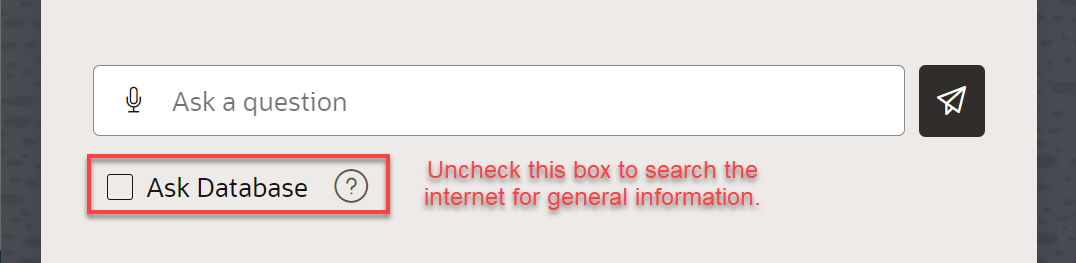
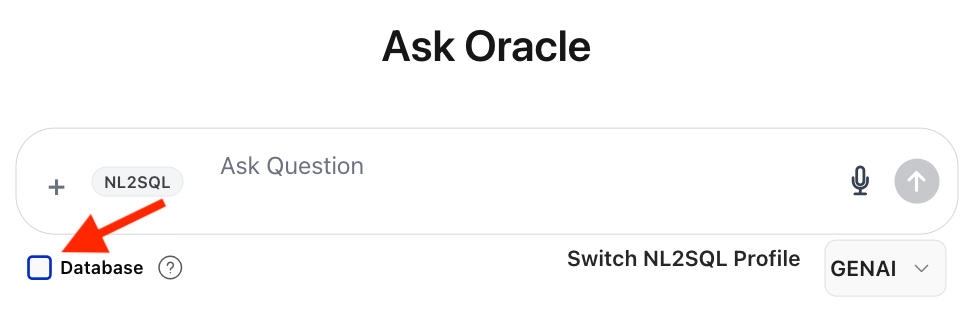
Update to the Chat with your Data Labs

Changed region(s): [[0.0, 0.0, 1.0, 1.0], [0.3696, 0.0913, 0.616, 0.2129], [0.0924, 0.3346, 0.3388, 0.4259]]

diff --git a/adb/shared/adb-speaks-human/use-select-ai-demo/use-select-ai-demo.md b/adb/shared/adb-speaks-human/use-select-ai-demo/use-select-ai-demo.md
@@ -27,24 +27,26 @@ In this lab, you will:
 
     ![Copy the URL value](./images/demo-credentials-file.png =65%x*)
 
-    Paste the URL in a new tab in your Web browser, and then click **[ENTER]**. In the **ADB Chat** page, enter the username (`moviestream`) and password that you saved in your text editor file, and then click **Sign In**.
+    Paste the URL in a new tab in your Web browser, and then click **[ENTER]**. 
+    
+2. On the **Ask Oracle Select AI** page, enter the username (`moviestream`) and password that you saved in your text editor file, and then click **Sign In**.
 
     ![Enter ChatDB credentials](./images/ai-select-credentials.png =70%x*)
 
-2. The **AI Settings** window in the **ADB Chat** application is displayed. Select a profile that you want to use. Click the **Choose subject areas** drop-down list, and select the **`GENAI [1]`** profile. This profile was created in the **Create credential and AI profile** paragraph in the notebook that you imported in **Lab 3**. Next, click the **X** control.
+3. The **Set Admin Users** window in the **Ask Oracle Select AI** application is displayed.  Type the username **MOVIESTREAM** in the `Admin usernames` , then click on the **Save Admin Users** button.  You should see a red `OK` shown on the bottom.  After you confirm this, hit the `ESCAPE` key on your keyboard to dismiss the menu.
 
-    ![Select AI application displayed](./images/select-ai-application.png =70%x*)
+    ![Set Admin Users is displayed](./images/select-ai-app-set-admin-users.png =70%x*)
 
-    The ADB Chat application is re-displayed. You are now ready to ask questions at the **Ask a question** prompt!
+4. In the main menu, you will see a section on the right of the conversation prompt that allows you to **switch the NL2SQL Profile**.  Click the pull-down menu and select **`GENAI`** profile. This profile was created in the **Create credential and AI profile** paragraph in the notebook that you imported in **Lab 3**.
 
-    ![Select AI application displayed](./images/select-ai-demo.png =70%x*)
+    ![Select AI application Profile](./images/select-ai-app-profile.png =70%x*)
 
 ## Task 2: Ask Natural Language and Database Questions Using the Application
 
-You can use this application to ask the following types of questions:
+1. You can use this application to ask the following types of questions:
 
 - **Ask the Internet Using your LLM Provider:**
-_Uncheck the **Ask Database** checkbox_ to ask general free form questions (internet-based) about anything such as _How do you make french toast?_. This question will go to the LLM Provider that you selected when you created the profile and returns the answer.
+_Uncheck the **Ask Database** checkbox_ to ask general free form questions (internet-based) about anything such as _Give me a recipe for french toast_. This question will go to the LLM Provider that you selected when you created the profile and returns the answer.
 
   ![Ask the internet](./images/ask-internet.png =70%x*)
 
@@ -53,23 +55,17 @@ _Select the **Ask Database** checkbox_ to ask questions about your business data
 
   ![Ask the database](./images/ask-database.png =70%x*)
 
-  <!---
-  Where do you specify what LLM provider and database schema/tables to use when answering your questions? When you create the profile using **`DBMS_CLOUD_AI.CREATE_PROFILE`** PL/SQL procedure, you specify the LLM provider, the credential, the schema, and the tables to use to answer your natural language questions on general data or your business data that is stored in your database.
-
-  ![Create profile diagram](./images/create-profile-diagram.png " ")
---->
-
 Let's experiment a bit with both general data from the `internet` and also from the `moviestream` tables in the database.
 
-1. Let's find out how to make french toast. Enter your question using a free form format in the **Ask a Question** text box, and make sure that the **Ask Database** checkbox is not checked since this is a general internet question that will be handled by your LLM provider. Next, click the **Run** icon, or press **[ENTER]**.
+Let's find out how to make french toast. Enter your question using a free form format in the **Ask a Question** text box, and make sure that the **Ask Database** checkbox is not checked since this is a general internet question that will be handled by your LLM provider. Next, click the **Run** icon, or press **[ENTER]**.
 
-    >**Note:** You can type your own natural language question. You don't have to use the exact question that we show in our examples.
+>**Note:** You can type your own natural language question. You don't have to use the exact question that we show in our examples.
 
-    ![How to make french toast question](./images/french-toast-question.png =70%x*)
+![How to make french toast question](./images/french-toast-question.png =70%x*)
 
-    A French toast recipe is displayed.
+A French toast recipe is displayed.
 
-   ![How to make french toast answer](./images/french-toast-answer.png =70%x*)
+![How to make french toast answer](./images/french-toast-answer.png =70%x*)
 
 2. Let's find out the top 10 streamed movies in the moviestream company. Click the **Clear** icon in the banner to clear the last question and answer. Enter your question using a free form format in the **Ask a Question** text box, and select the **Ask Database** checkbox since this is a question about the moviestream data. Next, press **[ENTER]**.
 
@@ -79,11 +75,11 @@ Let's experiment a bit with both general data from the `internet` and also from 
 
     ![Top 10 streamed movies result](./images/top-10-movies-result.png =70%x*)
 
-3. Click the **Explain** button to view and explain the SQL query behind this natural language question.
+2. Click the **Explain** button to view and explain the SQL query behind this natural language question.
 
   ![View and explain query](./images/explain-query-1.png =70%x*)
 
-  When you finish, click the **Close SQL** icon (left arrow) to return to the Home page. Click the **Explore** button.
+  When you finish, click the **Back** icon (left arrow) to return to the Home page. Click the **Explore** button.
 
   ![Click Explore](./images/click-explore.png =70%x*)
   
@@ -95,6 +91,18 @@ Let's experiment a bit with both general data from the `internet` and also from 
 
   ![Actions drop-down list](./images/actions.png =70%x*)
 
+5. When you finish, click the **Back** icon (left arrow) to return to the Home page. Now click the **Show SQL** button.
+
+  ![Actions drop-down list](./images/show-sql-button.png =70%x*)
+
+6. You can now see the SQL code generated by Select AI.
+
+  ![Actions drop-down list](./images/show-sql-response.png =70%x*)
+
+7. Finally, there is also a button to **Show Charts** that allows you to play interactively with the data.
+
+  ![Actions drop-down list](./images/show-charts.png =70%x*)
+
   >**Note:** _LLMs are remarkable at inferring intent from the human language and they are getting better all the time; however, they are not perfect! It is very important to verify the results._
 
 You may now proceed to the next lab.
@@ -102,17 +110,19 @@ You may now proceed to the next lab.
 ## Learn More
 * [DBMS\_NETWORK\_ACL\_ADMIN PL/SQL Package](https://docs.oracle.com/en/database/oracle/oracle-database/19/arpls/DBMS_NETWORK_ACL_ADMIN.html#GUID-254AE700-B355-4EBC-84B2-8EE32011E692)
 * [DBMS\_CLOUD\_AI Package](https://docs.oracle.com/en-us/iaas/autonomous-database-serverless/doc/dbms-cloud-ai-package.html)
-* [Using Oracle Autonomous AI Database Serverless](https://docs.oracle.com/en/cloud/paas/autonomous-database/adbsa/index.html)
+* [Using Oracle Autonomous Database Serverless](https://docs.oracle.com/en/cloud/paas/autonomous-database/adbsa/index.html)
 
 ## Acknowledgements
   * **Authors:** 
+    * Marcos Arancibia, Lead Principal Product Manager
+    * Marty Gubar, Product Management (Retired)
+* **Contributors:** 
     * Lauran K. Serhal, Consulting User Assistance Developer
-    * Marty Gubar, Product Management
-* **Last Updated By/Date:** Lauran K. Serhal, November 2025
+* **Last Updated By/Date:** Marcos Arancibia, July 2026
 
 Data about movies in this workshop were sourced from **Wikipedia**.
 
-Copyright (c) 2025 Oracle Corporation.
+Copyright (c) 2026 Oracle Corporation.
 
 Permission is granted to copy, distribute and/or modify this document
 under the terms of the GNU Free Documentation License, Version 1.3
